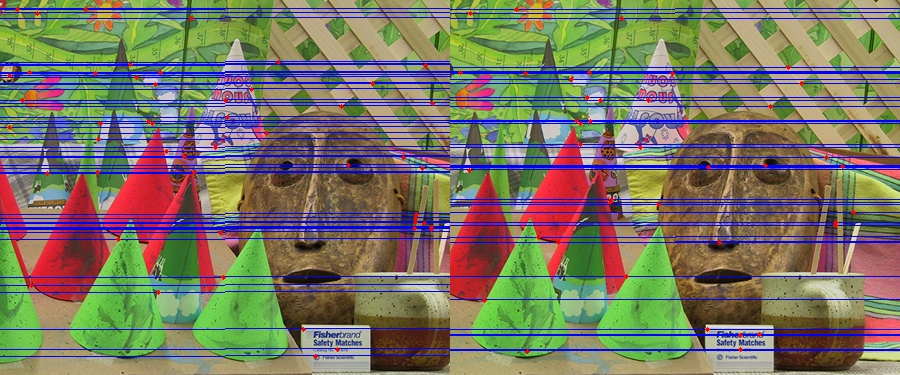
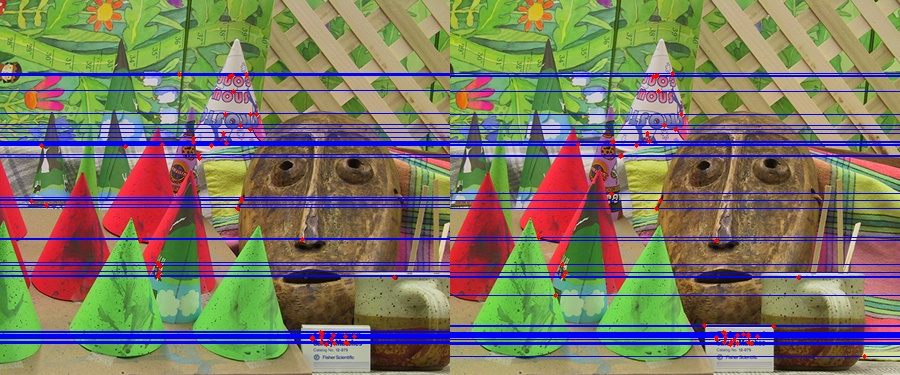
First Iter of Disparity calculation

diff --git a/stereo.py b/stereo.py
@@ -3,6 +3,71 @@
 import cv2
 import numpy as np
 import argparse
+import matplotlib.pyplot as plt
+from tqdm import *
+
+
+def computeDisparityMap(img1, img2, F):
+    """
+    Compute the disparity map using the fundamental matrix.
+    ## Args:
+        stereo images: input images
+        F: Best fundamental calculated
+    ## Returns:
+        Normalized disparity map
+    """
+    # Convert to grayscale.
+    image_1 = cv2.cvtColor(img1, cv2.COLOR_BGR2GRAY)
+    image_2 = cv2.cvtColor(img2, cv2.COLOR_BGR2GRAY)
+
+    # Set the window size.
+    window = 7
+
+    # Initialize the left and right stero arrays
+    left_arr, right_arr = image_1, image_2
+    left_arr, right_arr = left_arr.astype(int), right_arr.astype(int)
+
+    # CHECK
+    if left_arr.shape != right_arr.shape:
+        raise Exception("Left- Right image shape do not match")
+    
+    # Get the h and w of the image
+    h, w = left_arr.shape
+
+    # Initialize the disparity map
+    disparity_map = np.zeros((h,w))
+
+    #Compute disparity of each pixel.
+    x_new = w - (2*window)
+    for y in tqdm(range(window, h-window)):
+        block_left_arr = []
+        block_right_arr = []
+        for x in range(window, w-window):
+            block_left = left_arr[y:y + window,
+                                    x:x + window]
+            block_left_arr.append(block_left.flatten())
+
+            block_right = right_arr[y:y + window,
+                                    x:x + window]
+            block_right_arr.append(block_right.flatten())
+
+        block_left_arr = np.array(block_left_arr)
+        block_left_arr = np.repeat(block_left_arr[:, :, np.newaxis], x_new, axis=2)
+
+        block_right_arr = np.array(block_right_arr)
+        block_right_arr = np.repeat(block_right_arr[:, :, np.newaxis], x_new, axis=2)
+        block_right_arr = block_right_arr.T
+
+        abs_diff = np.abs(block_left_arr - block_right_arr)
+        sum_abs_diff = np.sum(abs_diff, axis = 1)
+        idx = np.argmin(sum_abs_diff, axis = 0)
+        disparity = np.abs(idx - np.linspace(0, x_new, x_new, dtype=int)).reshape(1, x_new)
+        disparity_map[y, 0:x_new] = disparity 
+        # Convert to uint8
+        disparity_map_int = np.uint8(disparity_map * 255 / np.max(disparity_map))
+
+    return disparity_map_int
+
 
 def get_images(image_paths, scale_factor=1.0):
     """
@@ -37,11 +102,13 @@ def estimate_fundamental_matrix(points1, points2):
     
     # F is given by the column of Vh that has the smallest singular value
     F = np.reshape(Vh[-1], (3, 3))
-    
+   
     # force F to be singular by setting smallest singular value to zero
     U, S, Vh = np.linalg.svd(F)
     S[-1] = 0
     F = U @ np.diag(S) @ Vh
+
+
 
     return F
 
@@ -88,7 +155,7 @@ def fundamental_ransac(correspondences, iterations = 2000, threshold = 0.01):
     return best_F, best_inliers
 
 
-def get_nonmax_suppression(img, window_size=5):
+def get_nonmax_suppression(img, window_size=3):
     """
     Apply non-maximum suppression to an image
 
@@ -321,9 +388,17 @@ def main():
     print("Fundamental Matrix: \n", fundmental_matrix)
     display_correspondences(img1, img2, correspondences, best_set_corresp)
     display_epipolar_lines(img1, img2, fundmental_matrix, correspondences)
-    
-    # v. disparity map
-    
+
+    # v. Compute the disparity map
+    # Convert to grayscale
+    disparity_map = computeDisparityMap(img1, img2, fundmental_matrix)
+
+    # vi. Display the disparity map
+    # Display disparity map
+    plt.cm.jet(disparity_map)
+    plt.imshow(disparity_map)
+    plt.show()
+
 
 if __name__ == "__main__":
     main()
